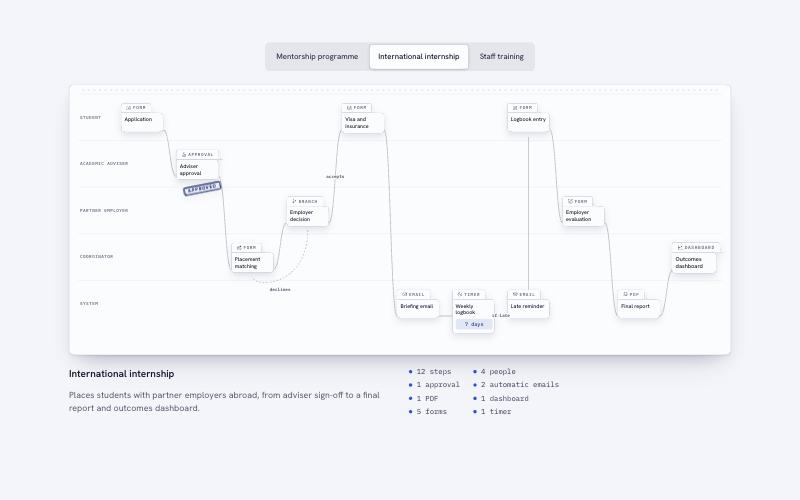
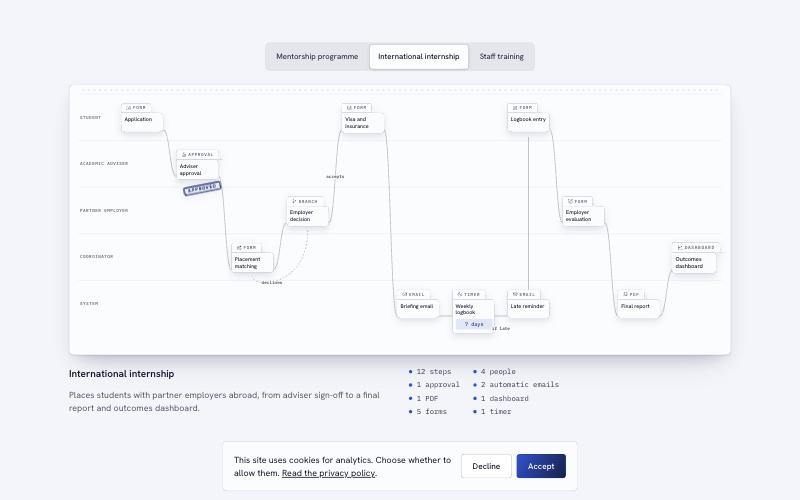
fix: close phase 7 QA site findings

Changed region(s): [[0.2812, 0.9, 0.5625, 0.96], [0.5938, 0.9, 0.7188, 0.96], [0.625, 0.63, 0.6562, 0.66]]

diff --git a/v2/src/site/layout.ts b/v2/src/site/layout.ts
@@ -1,0 +1,63 @@
+import type { Programme, Step } from './programmes'
+
+export const LANE_W = 84, COL_W = 128, ROW_H = 108, CARD_W = 98, CARD_H = 78, PAD_Y = 22, MID = 61, TAIL = 44
+export type Pt = { x: number; y: number }
+export type Rect = { x: number; y: number; w: number; h: number }
+
+export const pos = (st: Step): Pt => ({ x: LANE_W + st.col * COL_W + (COL_W - CARD_W) / 2, y: st.lane * ROW_H + PAD_Y })
+export const cardRect = (st: Step): Rect => ({ ...pos(st), w: CARD_W, h: CARD_H })
+
+/** A cubic Bezier between two cards: S-curve forward, vertical line within a column, a loop under the lanes going back. */
+export function route(a: Step, b: Step, lanes: number): { p: [Pt, Pt, Pt, Pt]; back: boolean } {
+  const pa = pos(a), pb = pos(b)
+  if (b.col > a.col) {
+    const x1 = pa.x + CARD_W, y1 = pa.y + MID, x2 = pb.x, y2 = pb.y + MID, dx = (x2 - x1) / 2
+    return { p: [{ x: x1, y: y1 }, { x: x1 + dx, y: y1 }, { x: x2 - dx, y: y2 }, { x: x2, y: y2 }], back: false }
+  }
+  if (b.col === a.col) {
+    const up = b.lane < a.lane, x = pa.x + CARD_W / 2, y1 = up ? pa.y : pa.y + CARD_H, y2 = up ? pb.y + CARD_H : pb.y
+    return { p: [{ x, y: y1 }, { x, y: y1 + (y2 - y1) / 3 }, { x, y: y1 + (2 * (y2 - y1)) / 3 }, { x, y: y2 }], back: false }
+  }
+  const x1 = pa.x + CARD_W / 2, x2 = pb.x + CARD_W / 2, y1 = pa.y + CARD_H, y2 = pb.y + CARD_H
+  const floor = Math.min(Math.max(y1, y2) + 26, lanes * ROW_H + 8)
+  return { p: [{ x: x1, y: y1 }, { x: x1, y: floor }, { x: x2, y: floor }, { x: x2, y: y2 }], back: true }
+}
+
+export const pathD = ([a, b, c, d]: [Pt, Pt, Pt, Pt]) => `M${a.x} ${a.y}C${b.x} ${b.y} ${c.x} ${c.y} ${d.x} ${d.y}`
+export const pointAt = ([a, b, c, d]: [Pt, Pt, Pt, Pt], t: number): Pt => {
+  const m = 1 - t
+  return {
+    x: m * m * m * a.x + 3 * m * m * t * b.x + 3 * m * t * t * c.x + t * t * t * d.x,
+    y: m * m * m * a.y + 3 * m * m * t * b.y + 3 * m * t * t * c.y + t * t * t * d.y,
+  }
+}
+
+export const labelSize = (text: string) => ({ w: text.length * 6 + 10, h: 14 })
+const hit = (a: Rect, b: Rect, pad: number) => a.x < b.x + b.w + pad && b.x < a.x + a.w + pad && a.y < b.y + b.h + pad && b.y < a.y + a.h + pad
+
+/** Puts each edge label as close to its edge as it can go without touching a card or another label. */
+export function placeLabels(p: Programme): Map<number, Rect> {
+  const byId = new Map(p.steps.map((s) => [s.id, s]))
+  const cards = p.steps.map(cardRect)
+  const placed = new Map<number, Rect>()
+  const cols = Math.max(...p.steps.map((s) => s.col)) + 1
+  const W = LANE_W + cols * COL_W, H = p.lanes.length * ROW_H + TAIL
+  p.edges.forEach(([a, b, label], i) => {
+    if (!label) return
+    const { p: pts } = route(byId.get(a) as Step, byId.get(b) as Step, p.lanes.length)
+    const { w, h } = labelSize(label)
+    let best: { r: Rect; cost: number } | null = null
+    for (let t = 0.05; t <= 0.951; t += 0.05) {
+      const c = pointAt(pts, t)
+      for (let dy = -40; dy <= 40; dy += 4) {
+        const r = { x: c.x - w / 2, y: c.y + dy - h / 2, w, h }
+        if (r.x < 0 || r.y < 0 || r.x + w > W || r.y + h > H) continue
+        if (cards.some((k) => hit(r, k, 3)) || [...placed.values()].some((k) => hit(r, k, 3))) continue
+        const cost = Math.abs(dy) + Math.abs(t - 0.5) * 10
+        if (!best || cost < best.cost) best = { r, cost }
+      }
+    }
+    if (best) placed.set(i, best.r)
+  })
+  return placed
+}

diff --git a/v2/src/site/showcase.ts b/v2/src/site/showcase.ts
@@ -1,7 +1,7 @@
 import { PROGRAMMES, ICON, stats, edgeKey, type Programme, type Step } from './programmes'
 import { showState } from './loop'
+import { LANE_W, COL_W, ROW_H, TAIL, pos, route, pathD, placeLabels } from './layout'
 
-const LANE_W = 84, COL_W = 128, ROW_H = 108, CARD_W = 98, CARD_H = 78, PAD_Y = 22, MID = 61, TAIL = 44
 const NS = 'http://www.w3.org/2000/svg'
 
 const h = <K extends keyof HTMLElementTagNameMap>(tag: K, cls = '', text = '') => {
@@ -23,25 +23,6 @@ const icon = (id: string) => {
 const timerText = (st: Step, k?: number) => {
   const t = st.timer as NonNullable<Step['timer']>
   return k === undefined ? `${t.n} ${t.unit}s` : `${t.unit === 'day' ? 'Day' : 'Month'} ${k} of ${t.n}`
-}
-
-const pos = (st: Step) => ({ x: LANE_W + st.col * COL_W + (COL_W - CARD_W) / 2, y: st.lane * ROW_H + PAD_Y })
-
-/** Path between two cards: straight or S-curve going forward, a vertical line within a column, a loop under the lanes going back. */
-function route(a: Step, b: Step, lanes: number) {
-  const pa = pos(a), pb = pos(b)
-  if (b.col > a.col) {
-    const x1 = pa.x + CARD_W, y1 = pa.y + MID, x2 = pb.x, y2 = pb.y + MID, dx = (x2 - x1) / 2
-    return { d: `M${x1} ${y1}C${x1 + dx} ${y1} ${x2 - dx} ${y2} ${x2} ${y2}`, lx: (x1 + x2) / 2, ly: (y1 + y2) / 2 + 3, back: false }
-  }
-  if (b.col === a.col) {
-    const up = b.lane < a.lane
-    const x = pa.x + CARD_W / 2, y1 = up ? pa.y : pa.y + CARD_H, y2 = up ? pb.y + CARD_H : pb.y
-    return { d: `M${x} ${y1}V${y2}`, lx: x, ly: (y1 + y2) / 2, back: false }
-  }
-  const x1 = pa.x + CARD_W / 2, x2 = pb.x + CARD_W / 2, base = lanes * ROW_H - 8
-  const y1 = pa.y + CARD_H, y2 = pb.y + CARD_H, low = Math.max(y1, y2) + 26, floor = Math.min(low, base + 16)
-  return { d: `M${x1} ${y1}C${x1} ${floor} ${x2} ${floor} ${x2} ${y2}`, lx: (x1 + x2) / 2, ly: floor + 8, back: true }
 }
 
 type View = { p: Programme; cards: Map<string, HTMLElement>; items: Map<string, HTMLElement>; ticks: Map<string, HTMLElement>; paths: Map<string, SVGPathElement>; lens: Map<string, number>; pulse: SVGElement; halo: SVGElement; stage: HTMLElement; fit: HTMLElement; root: HTMLElement }
@@ -68,15 +49,16 @@ function build(p: Programme): View {
   const svg = s('svg', { viewBox: `0 0 ${W} ${H}`, fill: 'none', class: 'sl-svg' })
   const paths = new Map<string, SVGPathElement>(), lens = new Map<string, number>()
   const labels = s('g')
-  for (const [a, b, label] of p.edges) {
+  for (const [a, b] of p.edges) {
     const r = route(byId.get(a) as Step, byId.get(b) as Step, p.lanes.length)
-    const path = s('path', { d: r.d, class: `lp-edge${r.back ? ' sl-back' : ''}` }) as SVGPathElement
+    const path = s('path', { d: pathD(r.p), class: `lp-edge${r.back ? ' sl-back' : ''}` }) as SVGPathElement
     svg.append(path); paths.set(edgeKey(a, b), path)
-    if (label) {
-      const t = s('text', { x: r.lx, y: r.ly, class: 'sl-label', 'text-anchor': 'middle' })
-      t.textContent = label
-      labels.append(t)
-    }
+  }
+  for (const r of placeLabels(p).entries()) {
+    const label = p.edges[r[0]][2] as string, box = r[1]
+    const t = s('text', { x: box.x + box.w / 2, y: box.y + box.h - 3, class: 'sl-label', 'text-anchor': 'middle' })
+    t.textContent = label
+    labels.append(t)
   }
   const halo = s('circle', { r: 13, class: 'rnr-halo sl-dot' }), pulse = s('circle', { r: 6, class: 'rnr-pulse sl-dot' })
   svg.append(halo, pulse)

diff --git a/v2/public/consent.js b/v2/public/consent.js
@@ -17,17 +17,27 @@
   }
 
   let bar = null
+
+  // Styles live in a stylesheet (not style attributes) so the banner looks the same on the public pages and in the app.
+  const css = document.createElement('style')
+  css.textContent =
+    '.rnr-consent{position:fixed;left:1rem;right:1rem;bottom:1rem;z-index:50;max-width:40rem;margin:0 auto;display:flex;flex-direction:row;flex-wrap:wrap;gap:var(--space-3,12px);align-items:center;justify-content:space-between}' +
+    '.rnr-consent-text{margin:0;flex:1 1 16rem}' +
+    '.rnr-consent-text a{color:inherit;text-decoration:underline;text-underline-offset:2px}' +
+    '.rnr-consent-actions{display:flex;gap:var(--space-2,8px)}' +
+    '.rnr-consent .rnr-btn{min-height:44px}'
+  const mount = () => { if (!css.isConnected) document.head.appendChild(css) }
   const hide = () => { bar?.remove(); bar = null }
   const show = () => {
     if (bar) return
+    mount()
     bar = document.createElement('div')
-    bar.className = 'rnr-card'
+    bar.className = 'rnr-card rnr-consent'
     bar.setAttribute('role', 'region')
     bar.setAttribute('aria-label', 'Cookie choice')
-    bar.style.cssText = 'position:fixed;left:1rem;right:1rem;bottom:1rem;z-index:50;max-width:40rem;margin:0 auto;display:flex;flex-direction:row;flex-wrap:wrap;gap:.75rem;align-items:center;justify-content:space-between'
     bar.innerHTML =
-      '<p class="body" style="margin:0;flex:1 1 16rem">We use anonymous, cookie-free analytics to see which pages help. <a href="/privacy" style="color:inherit;text-decoration:underline">Read the privacy policy</a>.</p>' +
-      '<div style="display:flex;gap:.5rem"><button type="button" class="rnr-btn rnr-btn-secondary" data-choice="declined">Decline</button>' +
+      '<p class="rnr-consent-text">This site uses cookies for analytics. Choose whether to allow them. <a href="/privacy">Read the privacy policy</a>.</p>' +
+      '<div class="rnr-consent-actions"><button type="button" class="rnr-btn rnr-btn-secondary" data-choice="declined">Decline</button>' +
       '<button type="button" class="rnr-btn rnr-btn-primary" data-choice="accepted">Accept</button></div>'
     bar.addEventListener('click', (e) => {
       const choice = e.target.closest('[data-choice]')?.dataset.choice

diff --git a/v2/src/site/site.css b/v2/src/site/site.css
@@ -225,7 +225,7 @@ html.js:not([data-motion="flat"]) .sl-card[data-state="now"] { transform: scale(
 .sl-list { position: absolute; width: 1px; height: 1px; margin: 0; padding: 0; overflow: hidden; clip: rect(0 0 0 0); white-space: nowrap; list-style: none; }
 .sl-item p { margin: 0; }
 .sl-meta { display: flex; align-items: center; gap: var(--space-2); }
-.sl-chip { padding: 2px 8px; border-radius: var(--r-control-sm); background: var(--tint); color: var(--ok-ink); font: 500 12px/18px var(--font-ui); }
+.sl-chip { padding: 2px 8px; border-radius: var(--r-key); background: var(--tint); color: var(--ok-ink); font: 500 12px/18px var(--font-ui); }
 .sl-type { display: inline-flex; align-items: center; gap: 4px; }
 .sl-item .sl-title { font: var(--type-title-sm); }
 .sl-note { color: var(--ink-3); font: var(--type-body-sm); }
@@ -246,3 +246,4 @@ html.js:not([data-motion="flat"]) .sl-card[data-state="now"] { transform: scale(
 .lp-lead { margin: 0; font: var(--type-label); color: var(--ink-2); }
 .lp-feat .lp-off { color: var(--ink-3); padding-left: 24px; justify-content: space-between; text-decoration: line-through; text-decoration-color: var(--line-strong); }
 .lp-feat .lp-off .lp-pro { text-decoration: none; padding: 2px 6px; border-radius: var(--r-key); background: var(--soft); color: var(--ink-2); }
+.sl-tick, .lp-hero .rnr-chip, .lp-stage .rnr-chip, .rnr-trend { border-radius: var(--r-key); }

diff --git a/v2/src/site/layout.test.ts b/v2/src/site/layout.test.ts
@@ -1,0 +1,19 @@
+import { test } from 'node:test'
+import assert from 'node:assert/strict'
+import { PROGRAMMES } from './programmes.ts'
+import { cardRect, placeLabels } from './layout.ts'
+
+const hit = (a: { x: number; y: number; w: number; h: number }, b: typeof a) => a.x < b.x + b.w && b.x < a.x + a.w && a.y < b.y + b.h && b.y < a.y + a.h
+
+test('every edge label is placed and touches no card and no other label', () => {
+  for (const p of PROGRAMMES) {
+    const labelled = p.edges.map((e, i) => (e[2] ? i : -1)).filter((i) => i >= 0)
+    const placed = placeLabels(p)
+    assert.equal(placed.size, labelled.length, `${p.key} labels placed`)
+    const rects = [...placed.values()]
+    rects.forEach((r, i) => {
+      for (const s of p.steps) assert.ok(!hit(r, cardRect(s)), `${p.key} label ${i} overlaps ${s.id}`)
+      rects.slice(i + 1).forEach((o) => assert.ok(!hit(r, o), `${p.key} labels overlap`))
+    })
+  }
+})

diff --git a/v2/index.html b/v2/index.html
@@ -244,7 +244,7 @@
               <li><svg class="lp-tick" viewBox="0 0 256 256" aria-hidden="true"><use href="#i-check"/></svg>SLA and a named contact</li>
               <li><svg class="lp-tick" viewBox="0 0 256 256" aria-hidden="true"><use href="#i-check"/></svg>Unlimited members</li>
               </ul>
-              <a class="rnr-btn rnr-btn-secondary" href="mailto:hello@reportnoreport.com">Talk to us</a>
+              <a class="rnr-btn rnr-btn-secondary" href="mailto:hello@reportnoreport.com">Contact sales</a>
             </div>
           </div>
         </div>
